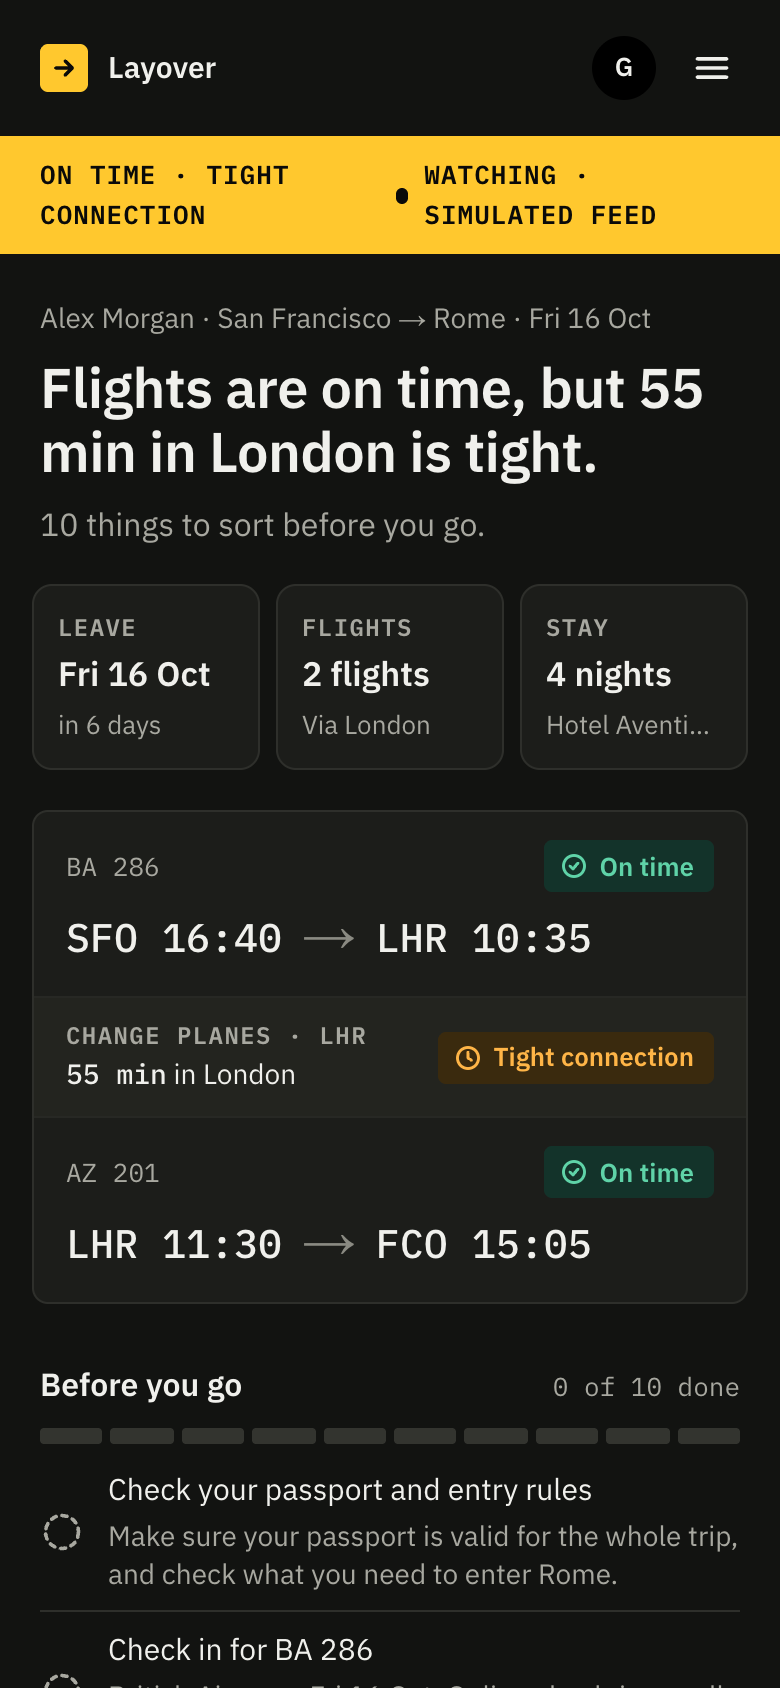
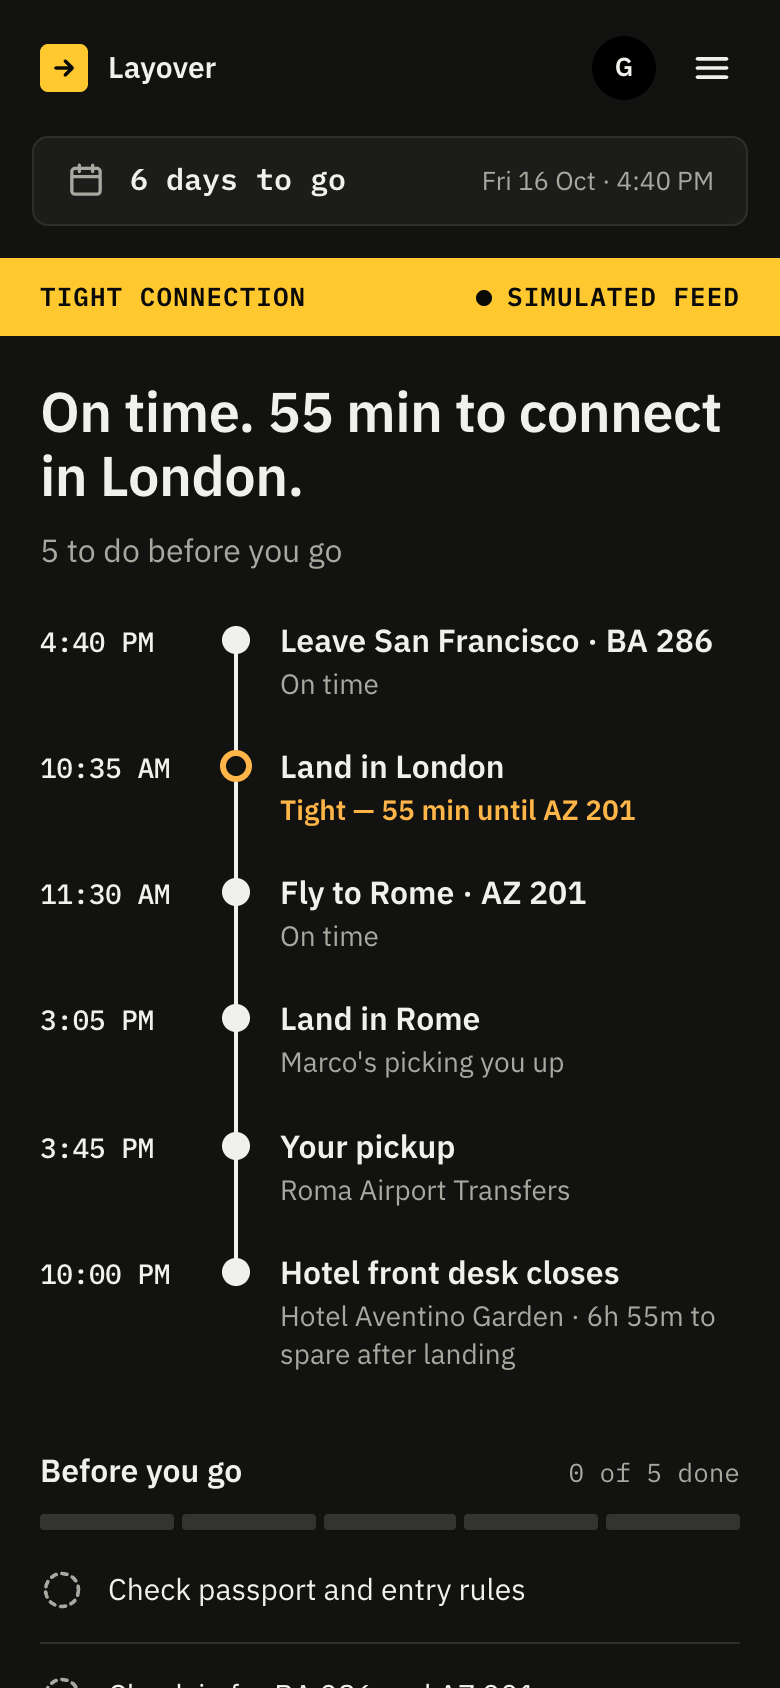
Docs: match the merged app's wording (Share update, To do, 12-hour times), new screenshots
The demo script steps 1 to 5 now follow what the live site shows after the morning merge:
the day-as-times view, Handled for you, To do > Do this first, Share update with Text
Marco and Email Mum, and times in the phone's own 12- or 24-hour format.

diff --git a/docs/demo-script.md b/docs/demo-script.md
@@ -26,7 +26,7 @@ Say it in your own words, early. Suggested line for step 1:
 Alex Morgan is flying San Francisco to Rome through London. Two airlines, two booking
 confirmations, one hotel. The first flight (BA 286) runs 2 hours 10 minutes late. That is
 longer than the 55-minute London connection, so Alex misses AZ 201 and is rebooked on AZ 207,
-which now lands in Rome at 18:00 instead of 15:05.
+which now lands in Rome at 6:00 PM instead of 3:05 PM.
 
 ## How the change arrives
 
@@ -66,7 +66,7 @@ once. Handy when rehearsing, or if a judge is hovering and time is short.
 7. Have the backup video ready to play (see "If something goes wrong").
 8. Do not tap any phone number during the demo. The numbers are made up, but the Rome ones
    might ring a stranger.
-9. For the **Listen to summary** line, turn the phone volume up and test it once before you
+9. For the **Listen** line, turn the phone volume up and test it once before you
    go up. With the ElevenLabs key on the server you hear the voice picked in the menu. Without
    it (or with no network) you hear the phone's own voice instead: still fine to play, but then
    do not say "ElevenLabs".
@@ -75,24 +75,28 @@ once. Handy when rehearsing, or if a judge is hovering and time is short.
 
 ## Step 1. Load the trip (15 seconds)
 
-**TAP** **Try the sample trip** on the home screen.
+Times show in the phone's own format: **2:25 PM** on most US phones, **14:25** on 24-hour
+phones. This script uses 12-hour times, as on the live site. Same flights either way.
 
-You land on **Flights are on time, but 55 min in London is tight.** The bar at the top reads
-**On time · tight connection**, next to a pulsing **Watching · simulated feed**. Say
-"simulated" when you point at it.
+**TAP** **Next: See your trip** (bottom right), or **Try the sample trip** on the home screen.
 
-**POINT** at the two flights, and at the line between them: **55 min in London**, marked
-tight.
+You land on **On time. 55 min to connect in London.** The bar at the top reads **Tight
+connection** next to **Simulated feed**. Say "simulated" when you point at it. Below it, the
+day as a list of times: leave San Francisco 4:40 PM, land in London 10:35 AM (**Watch this**:
+"Tight — 55 min until AZ 201"), fly to Rome 11:30 AM, land in Rome 3:05 PM, the pickup, and
+the hotel front desk closing at 10:00 PM.
+
+**POINT** at **Land in London** and its line, **Tight — 55 min until AZ 201**.
 
 **SAY**
 > "This is Alex's trip to Rome. A flight from San Francisco to London, a flight on to Rome,
-> a hotel, and the phone numbers Alex will need. Normally that is four different apps and
-> emails. Here it is one screen. The app is watching the flights. The airline feed is
-> simulated, so we can show you the moment it changes."
+> a hotel, and a pickup. Normally that is four different apps and emails. Here it is one
+> screen. The app is watching the flights. The airline feed is simulated, so we can show
+> you the moment it changes."
 
-When you finish the line, **TAP** **Next: Change the flight** (bottom right). (With Demo
-controls switched off in Settings, the change lands by itself about 6 seconds after the trip
-appears instead; then just keep talking.)
+When you finish the line, **TAP** **Next: Change the flight**. (With Demo controls switched
+off in Settings, the change lands by itself about 6 seconds after the trip appears instead;
+then just keep talking.)
 
 ---
 
@@ -101,85 +105,84 @@ appears instead; then just keep talking.)
 A card slides down from the top (the phone buzzes, if it can):
 
 > **Simulated flight change · new plan ready**
-> BA 286 is 2h 10m late, so you'll miss AZ 201 in London.
-> You're rebooked on AZ 207, 14:25 → 18:00 to Rome.
-> Told Hotel Aventino Garden your new arrival and moved your Roma Airport Transfers pickup to 18:40.
-> 5 things to sort out. Tap to see your plan.
+> Missed AZ 201. New flight AZ 207, 2:25 PM – 6:00 PM.
+> Told the hotel you land at 6:00 PM and moved your pickup to 6:40 PM.
+> 5 to do.
 
 **SAY**
 > "Here is the airline telling Alex. The first flight is over two hours late. Alex has
 > missed the connection and is already rebooked. Alex did not type a thing."
 
-**TAP** the card. It disappears by itself after about 9 seconds, so be quick. If you miss
-it, nothing is lost: the home screen has already changed. Just carry on to step 3.
+**TAP** the card, or the small **X**. If it hides itself first, nothing is lost: the home
+screen has already changed.
 
 ---
 
 ## Step 3. The plan ripples (25 seconds)
 
-The bar reads **New plan ready**. Under the headline, the yellow board flips to **18:00**
-with **15:05** struck through and **2h 55m later**. Below it is the trip as a rail, each
-step appearing a beat after the one above:
+The headline reads **London connection missed. You're on the 2:25 PM instead.** The day
+rebuilds itself, step by step:
 
-- **BA 286**, 2h 10m late, lands 12:45.
-- **Missed AZ 201**, red, with a dashed rail: the link is broken.
-- **AZ 207**, green, lands 18:00 (was 15:05).
-- **Hotel Aventino Garden**, green: 4h to spare before the front desk closes.
-- **Marco · pickup**, green: the pickup was moved to meet the new arrival.
-- **Mum · family**, amber: hasn't heard yet.
+- **Leave San Francisco · BA 286**, 6:50 PM: **2h 10m late**.
+- **Land in London**, 12:45 PM: 1h 40m until your new flight.
+- **AZ 201 to Rome**, was 11:30 AM: **Missed**, no longer happening.
+- **New flight · AZ 207**, 2:25 PM, lands 6:00 PM: **Rebooked**.
+- **Land in Rome**, 6:00 PM: Marco's picking you up, moved to match.
+- **Your pickup**, 6:40 PM: moved from 3:45 PM for you.
+- **Hotel front desk closes**, 10:00 PM: 4h to spare after landing.
 
-Under the rail, **Handled for you** lists what the app did by itself: the hotel told, the
-airport pickup moved to 18:40. Like the feed, this is simulated: no message really goes out.
+Under it, **Handled for you**: **Rebooked on AZ 207**, **Told the hotel you land at 6:00
+PM**, **Moved your pickup to 6:40 PM**, and the line **Simulated: nothing is really sent.**
 
 **SAY**
-> "One flight ran late and everything downstream lights up: the missed connection, the new
-> flight, the hotel, the pickup. The app already sorted the hotel and the transfer. Mum is
-> the one still waiting to hear."
+> "One flight ran late and everything downstream rebuilt itself: the missed connection, the
+> new flight, the pickup, the hotel. In the demo the app also handles the hotel and the
+> transfer. That part is simulated too."
 
 Say **"missed"** and **"rebooked"**. Those are the app's own words.
 
 ---
 
-## Step 4. Do this now (15 seconds)
+## Step 4. What to do (15 seconds)
 
-**POINT** at **Do this now**: one task, with one button. **Mark done** (or **Call**, or
-**Send the message** for the tasks that tell people). The rest are behind **All tasks**.
+**TAP** **To do (5)**. It opens on **Do this first**: one task with one button (**Mark
+done**, or **Call** when there is someone to call).
 
-**TAP** **Mark done**. The next task takes its place.
+**TAP** **Mark done**. The next task takes its place, and the count drops to **4**.
 
 **SAY**
-> "Alex never has to read a list. The app says what to do next."
+> "Alex never has to read a list. The app says what to do first."
 
 ---
 
-## Step 5. Tell Mum (25 seconds)
+## Step 5. Tell the people waiting (25 seconds)
 
-**TAP** **Share the new plan**. Under **Send to** are ready-written messages for Marco, Mum
-and the hotel, each with the new arrival time.
+**TAP** **Next: Share the update** (or **Share update** on the home screen). Under **Send
+to** are ready-written messages: **Text Marco** (the driver), **Email Mum**, and **Text Hotel
+Aventino Garden**, each with the new arrival time. Below them is the **Preview** of the
+update.
 
-**POINT** at the hotel message (it has the booking confirmation) and Mum's (it has no
-booking numbers).
+**POINT** at the hotel message (it has the booking confirmation) and Mum's (no booking
+numbers).
 
-**TAP** **Email Mum** on Mum's message. Mail opens addressed to her with the update filled
-in. Marco's says **Text Marco** instead: each message goes the way that person's saved
-details allow (a phone number means a text, otherwise an email). **Nothing is sent from
-here.** Go back.
+**TAP** **Email Mum**. The phone's mail app opens with the message filled in. **Nothing is
+sent from here.** Go back. The matching task is ticked off for you.
 
-The **Mum · family** node on the home screen is now green: the loop is closed.
+The numbers and the address are made up (`+39 06 0000 ...` and `mum@example.com`): do not
+actually send.
 
 **SAY**
-> "One tap opens the message. The app counts it as done, and Mum's step on the trip turns
-> green."
+> "One tap opens the message, already written. Mum hears the new plan, and the app ticks it
+> off."
 
-Then, if time allows, **Copy link** and open it on a second device to show the read-only
-page. No app, no account.
+Then, if time allows, **TAP** **Next: What they see**: the read-only page Mum would open,
+**Alex now lands in Rome at 6:00 PM.** No app, no account.
 
 ---
 
-## Optional: Listen to summary (10 seconds)
+## Optional: Listen (10 seconds)
 
-Only if you have time and the room is quiet. Back on the home screen, **TAP** **Listen to
-summary**. The phone plays a short briefing in the voice picked in the menu (made by
+Only if you have time and the room is quiet. Back on the home screen, **TAP** **Listen**. The phone plays a short briefing in the voice picked in the menu (made by
 ElevenLabs; only this text is sent). Before you tick anything, it reads:
 
 > "You missed your flight to Rome. You are now on a new flight arriving at 6:00 PM. Nothing
@@ -240,12 +243,13 @@ phone. Otherwise the phone may show an "open with" prompt.
 
 Cut in this order, last cut first. The path from 1 to 5 never changes.
 
-1. Skip the optional **Listen to summary** step.
+1. Skip the optional **Listen** step.
 2. Skip pointing at the hotel and Mum messages in step 5.
+   (Times on screen may be 12-hour or 24-hour, depending on the phone.)
 3. Skip opening the link on a second device. Say what happens instead.
 
-Never cut: the change arriving by itself, the rail lighting up, **Do this now**, or Mum's
-step turning green after the message. That is the whole idea.
+Never cut: the change arriving, the day rebuilding itself, **Do this first**, or the message
+to Mum. That is the whole idea.
 
 ---
 
@@ -283,10 +287,10 @@ Then, in this order:
 | You see no change after about 10 seconds | You are probably on the shared `/s` page, which never changes a trip, or the trip already has a change. Go to the home screen, then menu > **Restart the demo trip** > **Restart**. |
 | You missed the notification card | It hides itself after about 9 seconds. The home screen already shows the change. Carry on from step 3. |
 | Copy link does nothing | Use **Copy text** instead, or read the first two lines aloud and move on. |
-| **Listen to summary** sounds like the phone's own voice | The ElevenLabs key is missing or the network is down. It still works; just do not say "ElevenLabs". |
-| **Listen to summary** makes no sound | Check the phone is not on silent (the switch on the side of an iPhone). Otherwise skip that step. |
+| **Listen** sounds like the phone's own voice | The ElevenLabs key is missing or the network is down. It still works; just do not say "ElevenLabs". |
+| **Listen** makes no sound | Check the phone is not on silent (the switch on the side of an iPhone). Otherwise skip that step. |
 | A button does something you did not expect | Say "let me go back", tap **Back to trip**, and repeat the step. Do not apologise twice. |
-| The numbers are not 2h 10m, 14:25 and 18:00 | Stop. Something changed in the sample trip or the simulated feed. Switch to the backup video. |
+| The numbers are not 2h 10m, 2:25 PM (14:25) and 6:00 PM (18:00) | Stop. Something changed in the sample trip or the simulated feed. Switch to the backup video. |
 
 ### Backup video
 

diff --git a/docs/pitch.md b/docs/pitch.md
@@ -8,7 +8,7 @@ where you run out of breath.
 
 **Judging criteria:** innovativeness, functionality, creativity, theme ("Into the Skies").
 **Tracks entered:** Solana (see "Tracks" near the end before you say anything about it).
-ElevenLabs is built in, for **Listen to summary** only, but only works once its key is added
+ElevenLabs is built in, for **Listen** only, but only works once its key is added
 on the live site (see "Tracks").
 
 ---
@@ -52,7 +52,7 @@ simulated airline change arrives.*
 > connection in London and is already rebooked. Alex did not type a thing.
 >
 > *(new plan)* Here is what the app worked out by itself. The old flight is struck out. The
-> new one leaves London at 14:25 and lands in Rome at 18:00, not 15:05.
+> new one leaves London at 2:25 PM and lands in Rome at 6:00 PM, not 3:05 PM.
 >
 > *(checklist)* And here is what to do. Check your booking for AZ 207. Ask ITA Airways. Those
 > are not generic tips. They come from Alex's own trip.
@@ -129,7 +129,7 @@ Say these things in your own words if a judge asks "why you?". Do not recite the
 | Track | Where it stands | What must be true before you mention it | Who to ask |
 | --- | --- | --- | --- |
 | **Solana** | Built and tested. The traveler adds a Solana address in the **Trip menu**; the share screen has an **Add a Send help button** option with an amount in USDC; the shared page shows **Send help**, a QR code and the address to copy. All on devnet, Solana's test network, with address validation and the transfer-request builder tested under `src/lib/solana/`. Sebastian tested it on an iPhone with Phantom on devnet: scanning the QR code fills in the right amount and address. Phantom will not complete a devnet USDC payment ("Insufficient balance"), a limit of its test mode. | Say the wallet opens with everything filled in. Do not say a payment went through. On stage, stop on Phantom's filled-in screen. | Sebastian |
-| **ElevenLabs** | Built. **Listen to summary** sends only the short spoken briefing to ElevenLabs through the app's `/api/speak` route and plays the audio; the voice is picked in the trip menu. **On Saturday night the live site had no ElevenLabs key**, so Listen used the phone's own built-in voice instead (it no longer shows an error). | The team adds `ELEVENLABS_API_KEY` in Vercel and redeploys. Then test on the stage phone: the voice should be the one picked in the menu (George, Sarah, Alice or Roger), not the phone's usual voice. If it sounds like the phone's own voice, do not mention ElevenLabs. | Boris |
+| **ElevenLabs** | Built. **Listen** sends only the short spoken briefing to ElevenLabs through the app's `/api/speak` route and plays the audio; the voice is picked in the trip menu. **On Saturday night the live site had no ElevenLabs key**, so Listen used the phone's own built-in voice instead (it no longer shows an error). | The team adds `ELEVENLABS_API_KEY` in Vercel and redeploys. Then test on the stage phone: the voice should be the one picked in the menu (George, Sarah, Alice or Roger), not the phone's usual voice. If it sounds like the phone's own voice, do not mention ElevenLabs. | Boris |
 
 If the Solana step does not work on the day, on the phone you present from, say nothing about
 Solana at the table. A judge who sees a broken promise scores the whole project down. If you
@@ -175,7 +175,7 @@ to ElevenLabs to make the audio. Neither stores it. The screens say so next to t
 **Did Layover really tell the hotel and move the pickup?**
 No. Like the airline feed, **Handled for you** is simulated in this demo: no message reaches
 a hotel or a driver. It shows what the app would do once it is connected to them. The
-messages under **Share the new plan** are real: they open your own WhatsApp, Messages or email
+messages under **Share update** are real: they open your own Messages or email
 with the text filled in.
 
 **Do you use AI?**

diff --git a/README.md b/README.md
@@ -20,7 +20,7 @@ itself, and the update is ready to send to the person waiting.
 
 | On track | New plan | Share it | What they see |
 | --- | --- | --- | --- |
-| <img src="docs/screenshots/1-on-track.png" width="190" alt="Layover: the trip is on time, with a tight 55-minute connection in London flagged"> | <img src="docs/screenshots/2-new-plan.png" width="190" alt="London connection missed: the board flips to 18:00 and the trip rail shows what is affected"> | <img src="docs/screenshots/3-share.png" width="190" alt="The share screen with ready-written messages for Marco, Mum and the hotel"> | <img src="docs/screenshots/4-recipient.png" width="190" alt="The read-only page the recipient opens: Alex now lands in Rome at 18:00"> |
+| <img src="docs/screenshots/1-on-track.png" width="190" alt="Layover: the trip is on time, with a tight 55-minute connection in London flagged"> | <img src="docs/screenshots/2-new-plan.png" width="190" alt="London connection missed: the day rebuilds itself around the new 2:25 PM flight"> | <img src="docs/screenshots/3-share.png" width="190" alt="Share update: Text Marco, Email Mum and Text the hotel, each message already written"> | <img src="docs/screenshots/4-recipient.png" width="190" alt="The read-only page the recipient opens: Alex now lands in Rome at 6:00 PM"> |
 
 ## Try it
 
@@ -37,7 +37,7 @@ pnpm dev
 ```
 
 Optional: copy `.env.example` to `.env.local` and add `ANTHROPIC_API_KEY` (import from
-text) and `ELEVENLABS_API_KEY` (Listen to summary). Without them, import says it is not
+text) and `ELEVENLABS_API_KEY` (Listen). Without them, import says it is not
 available and Listen uses the phone's built-in voice; everything else works.
 
 Open http://localhost:3000, tap **Continue as guest**, then **Try the sample trip** (or
@@ -61,8 +61,8 @@ pnpm build   # production build
    connection is missed and the traveler is rebooked on AZ 207.
 3. See the new arrival on the board, the trip as a rail that shows what is affected,
    **Handled for you** (the hotel told and the airport pickup moved, both simulated), and
-   one **Do this now** task.
-4. Tap **Share the new plan**, then the send button on a person's message. It texts them if
+   a **To do** list that opens on the one thing to do first.
+4. Tap **Share update**, then the send button on a person's message. It texts them if
    a phone number is saved for them, otherwise emails them: Messages or Mail opens with the
    update filled in (nothing is sent from here).
 5. Open a shared link. It is a read-only page that needs no app and no account.

diff --git a/docs/demo-day.md b/docs/demo-day.md
@@ -23,8 +23,8 @@ On the phone you present from:
 2. [ ] Tap **Continue as guest** if the sign-in screen shows.
 3. [ ] Menu (top right) > **Clear this trip** > **Clear trip**, so you start clean.
 4. [ ] Do one full practice run: **Try the sample trip**, wait for the change, **Mark done**,
-       **Share the new plan**, **Copy link**, open it.
-5. [ ] Tap **Listen to summary** once. Is it the voice picked in the menu (ElevenLabs) or the
+       **Share update**, **Copy link**, open it.
+5. [ ] Tap **Listen** once. Is it the voice picked in the menu (ElevenLabs) or the
        phone's own voice? Only say "ElevenLabs" if it is the picked voice.
 6. [ ] If you will show Send help: menu > paste the Traveler wallet address > **Save address**.
        Then use **Restart the demo trip** from now on, not **Clear this trip** (clearing wipes
@@ -63,7 +63,7 @@ On the second phone (for the shared link and Send help):
 1. iPhone: Settings > Control Center > add **Screen Recording**.
 2. On the stage phone: menu > **Restart the demo trip** > **Restart**.
 3. Swipe down from the top right, tap the record button, wait for the countdown.
-4. Do the whole demo: the change arriving, **Mark done**, **Share the new plan**, **Copy link**,
+4. Do the whole demo: the change arriving, **To do** > **Mark done**, **Share update**, **Copy link**,
    the shared page, and Send help if it is working.
 5. Stop the recording. It saves to Photos.
 6. AirDrop it to a laptop as a second copy.
